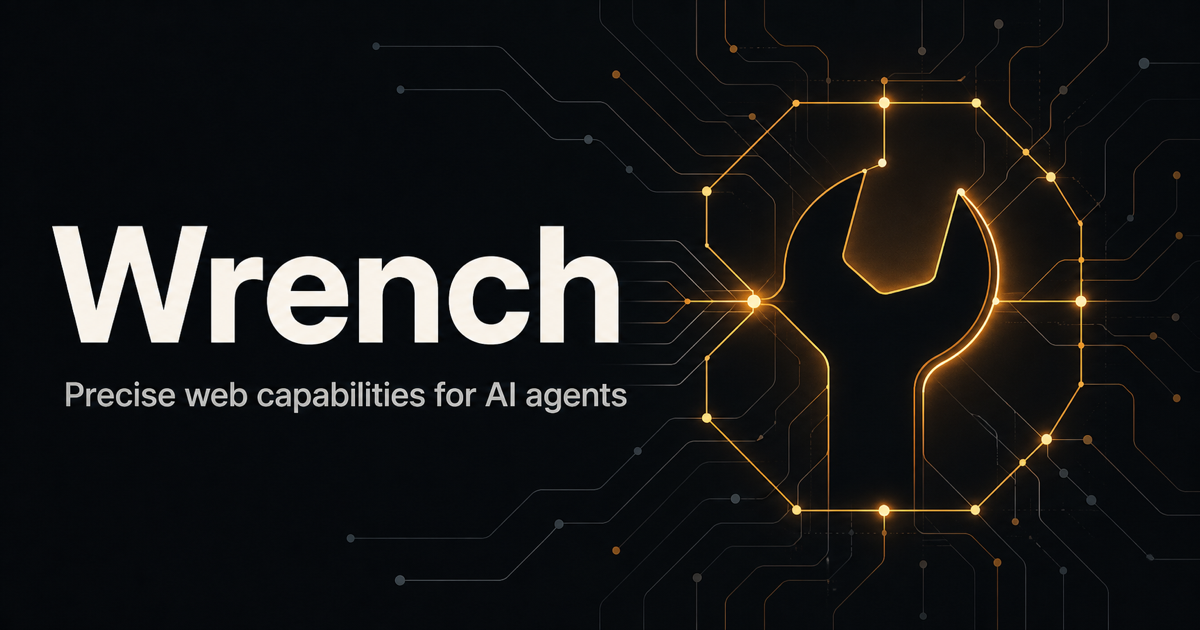
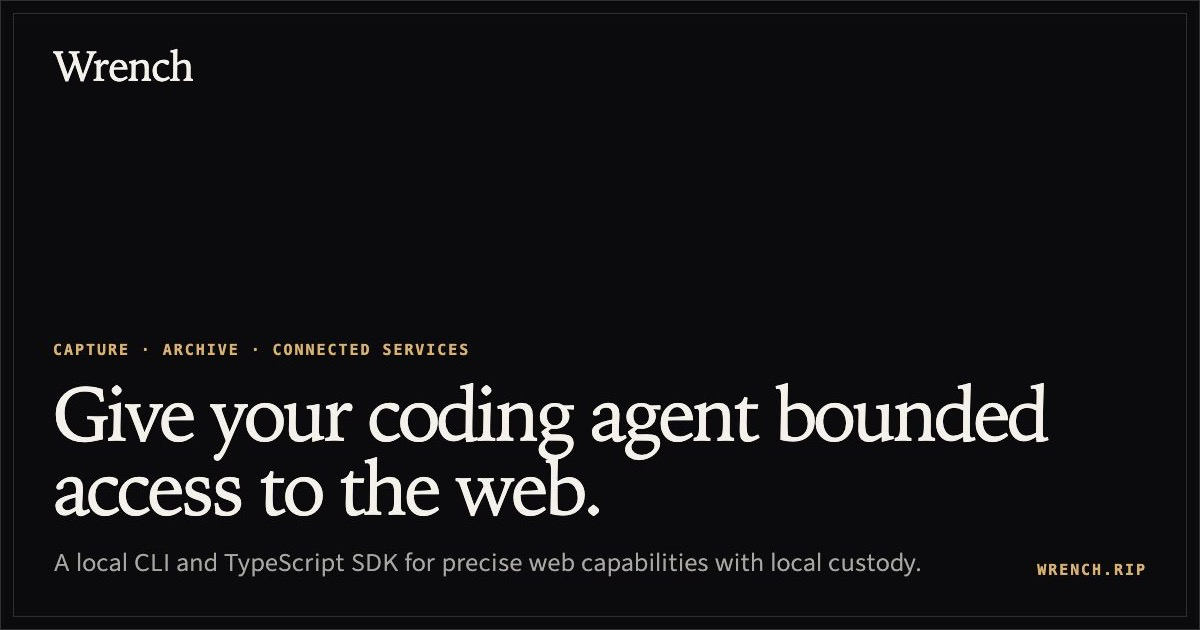
release: publish minimal Wrench provider support

diff --git a/website/build.ts b/website/build.ts
@@ -35,7 +35,7 @@ export const REPOSITORY_URL = "https://github.com/hraness/wrench" as const;
 export const PUBLISHER_URL = "https://github.com/hraness" as const;
 export const SKILL_INSTALL_COMMAND = "npx skills add hraness/wrench" as const;
 export const SKILL_INSTALL_COMMAND_BUNX = "bunx skills add hraness/wrench" as const;
-export const CONTENT_REVIEWED_RELEASE = "v0.15.1" as const;
+export const CONTENT_REVIEWED_RELEASE = "v0.16.0" as const;
 export const DEFAULT_POSTHOG_HOST = "https://us.i.posthog.com" as const;
 export const DEMO_PUBLIC_FILES = [
   "wrench-first-capture.gif",

diff --git a/src/model.test.ts b/src/model.test.ts
@@ -987,7 +987,7 @@ describe("wrench manifest parsing", () => {
     const current = parseRuntimeManifest(currentValue);
     expect(current.ok).toBeTrue();
     if (!current.ok) return;
-    expect(current.value.version).toBe("1.11.0");
+    expect(current.value.version).toBe("1.12.0");
     const article = current.value.operations["articles.draft.save"];
     expect(article !== undefined && isWebSessionOperation(article)).toBeTrue();
     if (article === undefined || !isWebSessionOperation(article)) return;

diff --git a/src/media/manifest.test.ts b/src/media/manifest.test.ts
@@ -465,7 +465,7 @@ function trackedYtDlpManifest(
 describe("Wrench media manifest", () => {
   test("uses one Wrench-owned schema and transcriber identity", () => {
     expect(WRENCH_MEDIA_SCHEMA_VERSION).toBe(1);
-    expect(WRENCH_MEDIA_VERSION).toBe("0.15.1");
+    expect(WRENCH_MEDIA_VERSION).toBe("0.16.0");
     expect(localTranscriptVariantSegments(localIdentity)).toEqual([
       "transcript",
       "local",

diff --git a/src/beeper-client-types.ts b/src/beeper-client-types.ts
@@ -96,7 +96,7 @@ export type BeeperContactInteractionExportReceipt = Readonly<{
   implementation: Readonly<{
     producer: Readonly<{
       package: "@hraness/wrench";
-      version: "0.15.1";
+      version: "0.16.0";
     }>;
     officialCli: Readonly<{
       implementation: "github.com/beeper/cli";

diff --git a/src/wrench.test.ts b/src/wrench.test.ts
@@ -2014,6 +2014,7 @@ describe("doctor authenticated API readiness", () => {
         adapters: ["x-web"],
         observedOperations: [
           "articles.draft.save",
+          "articles.read",
           "comments.read",
           "content.save",
           "feeds.read",

diff --git a/dist/beeper-client.js b/dist/beeper-client.js
@@ -269,7 +269,7 @@ var BEEPER_CLI_COMMAND_COVERAGE = Object.freeze({
 });
 
 // src/version.ts
-var WRENCH_VERSION = "0.15.1";
+var WRENCH_VERSION = "0.16.0";
 
 // src/beeper-contact-interactions.ts
 var BEEPER_CONTACT_INTERACTION_SCHEMA_VERSION = 1;

diff --git a/src/version.ts b/src/version.ts
@@ -1,2 +1,2 @@
 /** Canonical immutable Wrench package release identity. */
-export const WRENCH_VERSION = "0.15.1" as const;
+export const WRENCH_VERSION = "0.16.0" as const;

diff --git a/kb/plans/beeper-provider-marketing.md b/kb/plans/beeper-provider-marketing.md
@@ -54,6 +54,8 @@ Official competitive material establishes the surrounding market:
 
 - Generate Wrench's provider presentation from the same validated adapter attestation that owns provider names, versions, operation states, transports, and limits.
 - Put recognizable, accessible provider marks and exact observed-versus-reserved counts near the top of Wrench's homepage and provider directory.
+- Replace Wrench's initial dense, icon-led directory with a minimal editorial surface patterned after Atet: serif display headings, thin rules, restrained color, compact installation, and no decorative provider chrome.
+- Project only executable provider actions into Wrench's public support directory. Keep the complete observed-versus-reserved ledger in checked internal attestation code and technical documentation, but do not make those implementation states the visitor's navigation model.
 - Add a focused Wrench Beeper page that explains actions, requirements, mutation evidence, exclusions, and every independent version boundary.
 - Improve Wrench README and local-CLI provider discovery without duplicating executable contracts.
 - Release the merged Wrench package at the next semantic minor version so the website and install instructions describe a real immutable artifact.
@@ -75,9 +77,10 @@ Official competitive material establishes the surrounding market:
 
 ## Constraints and decisions
 
-- Support claims use “observed operations” and put inert `capture-required` reservations beside them. A provider with no observed operation cannot appear as ready.
+- Superseded public-presentation decision: the first Wrench directory put “observed operations” and inert `capture-required` reservations beside every provider. User review found those contract-state terms confusing and too implementation-oriented. The public directory now lists only supported executable actions and omits a surface with no such action. The validated attestation, CLI capability output, security model, and plugin-authoring documentation retain the exact states.
+- Do not publish a provider coverage percentage. A reservation is not support, and hiding one from the public directory is not a coverage gain. Count a gain only when exact request, response, account, actor, target, projection, and drift evidence promote the operation through the existing executable contract boundary.
 - Wrench presentation data joins strictly to the validated active attestation. A new or removed provider surface fails the site build until its presentation metadata is reviewed.
-- Icons aid scanning but never replace visible names or status text. Assets remain local, are decorative to assistive technology, and carry no endorsement claim. Product-owned neutral marks are preferred over copied brand artwork when trademark or provenance is unclear.
+- Superseded Wrench icon decision: neutral marks aided the first directory, but they added visual weight without improving the action model. The revised Wrench surface uses visible provider names and text only. Other products may retain local decorative marks when they remain useful and do not imply endorsement.
 - Wrench's Beeper value is its exact executable, account, target, transport, semantic contract, preview, dispatch, and reconciliation boundary around the official CLI. It is not “Beeper for agents,” because Beeper already provides agent surfaces.
 - Message Like Me uses “Sources,” not “Integrations,” because it ingests history but does not operate accounts. Its Beeper path always says “via Wrench.”
 - PeopleBlade groups sources by semantic mode: local sync, reviewed live connectors, official archives, and honest limits. It calls Google Contacts by its actual name and describes Beeper as read-only.
@@ -111,7 +114,7 @@ Official competitive material establishes the surrounding market:
 
 Reject any change that:
 
-- turns observed and reserved operations into one undifferentiated integration count;
+- counts an unavailable reservation as provider support, claims a coverage percentage that cannot be reproduced, or treats a filtered row as an implementation gain;
 - says Wrench wraps “all Beeper CLI features,” “all chats,” or delivered messages;
 - collapses adapter, semantic contract, CLI, executable digest, Desktop target, or API revision into one version;
 - implies Beeper or another provider endorses any Hraness product;
@@ -147,6 +150,10 @@ Reject any change that:
 - 2026-08-27 — Shipped Message Like Me's canonical four-source catalog, first-screen Beeper positioning, Sources and Docs pages, narrow-command layout, exact Wrench bundle coordinates, and HTML/machine-readable discovery parity through [PR 5](https://github.com/hraness/message-like-me/pull/5). Root validation passed 117 tests; the site passed 11 tests plus lint, typecheck, and build. Merge commit `e594ed41667f290419f3a9072c3b8413dc15bc47` became immutable Latest release `v0.5.1`, and `messagelikeme.com`, `/sources`, `/docs`, the sitemap, and `llms.txt` were verified live.
 - 2026-08-27 — Shipped PeopleBlade's canonical source catalog, homepage and About parity, exact read-only Beeper route, explicit `beeper rebind` transition, local-CLI receipt/search provenance, source-incarnation history, and responsive/source metadata through [PR 36](https://github.com/hraness/peopleblade/pull/36). The current-main gate passed lint, typecheck, 495 tests, production build, and the StyleX browser/CSP matrix. Vercel production deployment `6130951969` bound exact merge commit `9a5d859e7d37d8373bb23212256805dd2fccc67b`; all public HTML, Markdown, `llms.txt`, sitemap, and robots routes were verified on `peopleblade.com`.
 - 2026-08-27 — Re-audited the three production sites as one journey. Wrench advertises 32 observed read/manage/send operations at Wrench 0.15.0, adapter 2.0.0, and official CLI 0.6.2. Message Like Me accepts only bundle schema 1, source `beeper-local`, and transform 1.1.0 and explicitly never calls Beeper/Wrench or sends. PeopleBlade exposes contacts and candidate search at the generic coordinate, keeps exporter 1.1.0/macOS arm64 interaction counts separate, and explicitly exposes none of Wrench's Beeper mutations. No naming, version, or authority contradiction remained.
+- 2026-08-27 — User review rejected Wrench's giant grotesk title, decorative circuit/orbit field, bulky controls, neutral provider icons, and contract-state-led directory as visually heavy and hard to understand. Chose Atet's editorial system as the concrete reference: Nebula Sans body copy, system serif display headings, thin rules, low-radius panels, restrained amber labels, and a two-column install-first hero.
+- 2026-08-27 — Re-audited all 317 current release-bound operation rows and all 335 starting registry entries, then challenged every unavailable R1 row against existing exact reads and mutation readbacks. The trust gate accepted two standalone promotions: one current-viewer-owned private X Article draft read and one metadata-only Reddit hosted-video read. That moves the release snapshot from 128 to 130 executable contracts while 187 reservations remain inert. Retained predecessor identities bring the active registry to 337 entries: 137 observed and 200 capture-required.
+- 2026-08-27 — Implemented the revised Wrench presentation for v0.16.0. The homepage now leads with a compact two-column install surface, the provider directory renders all and only the 18 services with executable actions, and the public copy contains neither `observed` nor `capture-required`. Reviewed the generated homepage and directory at desktop and 390-pixel widths, confirmed no horizontal overflow, and replaced the social preview with a matching 1200-by-630 editorial image.
+- 2026-08-27 — Exercised the new website, provider contracts, registry parity, version surfaces, generated package, and clean-consumer install. A long repository run exposed one unrelated macOS child-process denial while reading `kern.boottime`; the unchanged complete derivation file then passed 173 of 173 tests and the exact reused-PID case passed 10 of 10 with the required process access. No lifecycle code change was warranted.
 
 ## Review findings
 
@@ -164,10 +171,12 @@ Reject any change that:
 - PeopleBlade accessibility and responsive review finding: the header note collided between mobile and desktop breakpoints, public headers sat inside `main`, and the skip path was incomplete. Disposition: hide the note through 900 pixels, keep it one line from 901 pixels, move shared headers outside `main`, and add the first-link skip target. Final QA covered 320, 390, 561, 768, 900, 901, 1024, and 1440 pixels in both themes with no overflow or unnamed controls.
 - PeopleBlade implementation review finding: a straightforward identity-row update was not enough for Wrench 0.15.0's strengthened Beeper target. Disposition: add append-only source-binding incarnations and one explicit compare-and-swap rebind that proves the prior receipt, exact complete inventory, current identity/state, and new local-CLI contract before transition.
 - PeopleBlade database review finding: repeated raw-SQL probes found stale guard snapshots, mutable or replaceable guards, conflict-replacement deletion with recursive triggers disabled, row-ID aliases, and delete/reinsert substitution. Disposition: snapshot and recheck predecessor metadata and inventory, make admitted guards immutable through exact consumption, fence insert/replace collisions, compare every incarnation identity value including the row ID on all updates, and regress `id`, `rowid`, `UPDATE OR REPLACE`, stale-state, authority, chronology, and rollback paths. Two independent final reviews found no remaining commit-time invariant violation.
+- Post-release user review: the complete 317-row ledger was technically exact but made provider discovery read like an implementation audit. Disposition: keep the ledger as checked source and CLI truth; render only executable actions, access methods, and provider names on the public support page, omit zero-action Facebook Pages, and leave exact state terminology to technical security and authoring contexts.
+- Coverage review: relabeling or filtering unsupported rows would create false support. An initial sibling-readback audit surfaced six possible R1 conversions, but the repository trust gate accepted only X `articles.read@2` and Reddit `media.read@2`. It rejected LinkedIn Article reads, Threads post/media reads, and Marketplace media reads because retained implementation seams or stale evidence do not independently authorize new standalone public operations. LinkedIn `posts.read` also remains unavailable because its observed publish readback is only a mutation-parameterized equality oracle with no checked raw response fixture or standalone response projection. Disposition: ship the two evidence-approved closed projections and keep all other reservations inert until exact current captures and authorization exist.
 
 ## Result
 
-All three consumers now name Beeper prominently and truthfully in dependency order. Wrench v0.15.0 presents its release-bound provider catalog and dedicated 32-operation Beeper surface. Message Like Me v0.5.1 presents Beeper as a verified private history source produced by Wrench, not as a direct client. PeopleBlade presents Beeper as a read-only contact and candidate-search source with a separately versioned, narrower interaction-count exporter, while directing broader messaging and actions back to Wrench.
+All three consumers now name Beeper prominently and truthfully in dependency order. Wrench v0.16.0 presents its minimal supported-action directory and dedicated 32-operation Beeper surface. Message Like Me v0.5.1 presents Beeper as a verified private history source produced by Wrench, not as a direct client. PeopleBlade presents Beeper as a read-only contact and candidate-search source with a separately versioned, narrower interaction-count exporter, while directing broader messaging and actions back to Wrench.
 
 Every repository shipped through a current-head pull request and its documented gate. Wrench and Message Like Me produced immutable Latest releases; PeopleBlade produced an exact-SHA Vercel production deployment because it has no package-release workflow. The final production audit found no remaining version, naming, availability, sending-authority, responsive, metadata, or HTML/Markdown inconsistency.
 

diff --git a/README.md b/README.md
@@ -44,7 +44,7 @@ wrench plugin list
 
 ## Built-in provider catalog
 
-Wrench v0.15.1 supports actions for 18 services: Beeper, Bluesky, Facebook,
+Wrench v0.16.0 supports actions for 18 services: Beeper, Bluesky, Facebook,
 Facebook Groups, Facebook Marketplace, GitHub, Gmail, Hacker News, Instagram,
 LinkedIn, Reddit, Substack, Threads, TikTok, Twitch, WhatsApp, X, and YouTube.
 LinkedIn and X each have separate official and authenticated-web adapters. The
@@ -110,7 +110,7 @@ install the CLI if it is missing. Start a new agent session after installation.
 Install the current release from npm:
 
 ```sh
-bun add --global @hraness/wrench@0.15.1
+bun add --global @hraness/wrench@0.16.0
 wrench adapter sync-bundled --json
 wrench doctor
 ```
@@ -134,7 +134,7 @@ Install Wrench in an agent or application that owns its own model, planning,
 tool loop, approvals, and interface:
 
 ```sh
-bun add @hraness/wrench@0.15.1
+bun add @hraness/wrench@0.16.0
 ```
 
 ```ts

diff --git a/skills/wrench/references/install.md b/skills/wrench/references/install.md
@@ -21,7 +21,7 @@ When the user asked to install or use Wrench, install the current immutable
 release and its reviewed bundled adapter manifests:
 
 ```sh
-bun add --global @hraness/wrench@0.15.1
+bun add --global @hraness/wrench@0.16.0
 wrench adapter sync-bundled --json
 wrench --help
 wrench doctor --json
@@ -31,7 +31,7 @@ Do not clone the repository merely to run the CLI. Importing the SDK is a
 separate project dependency and does not install a global command:
 
 ```sh
-bun add @hraness/wrench@0.15.1
+bun add @hraness/wrench@0.16.0
 ```
 
 ## Add only required optional tools

diff --git a/CHANGELOG.md b/CHANGELOG.md
@@ -2,6 +2,8 @@
 
 ## Unreleased
 
+## 0.16.0 - 2026-08-27
+
 - Redesign wrench.rip as a restrained editorial site with a supported-actions-only
   provider directory, task-first capability labels, and no zero-action service
   cards in the public catalog.
